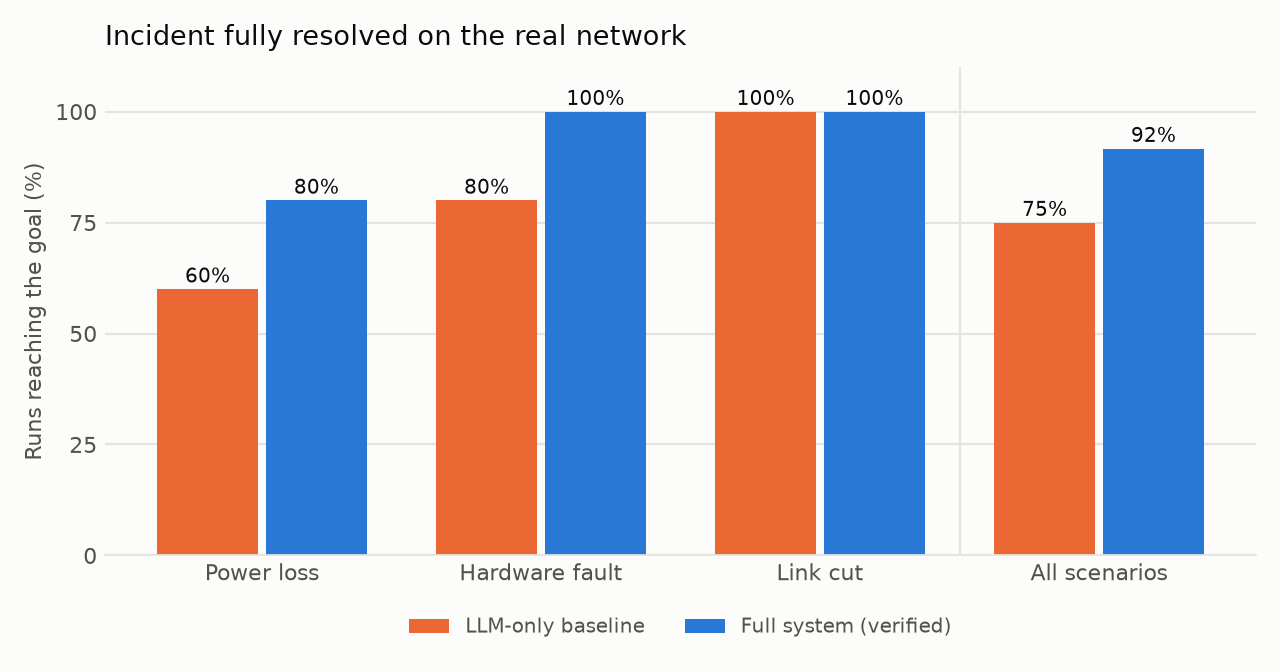
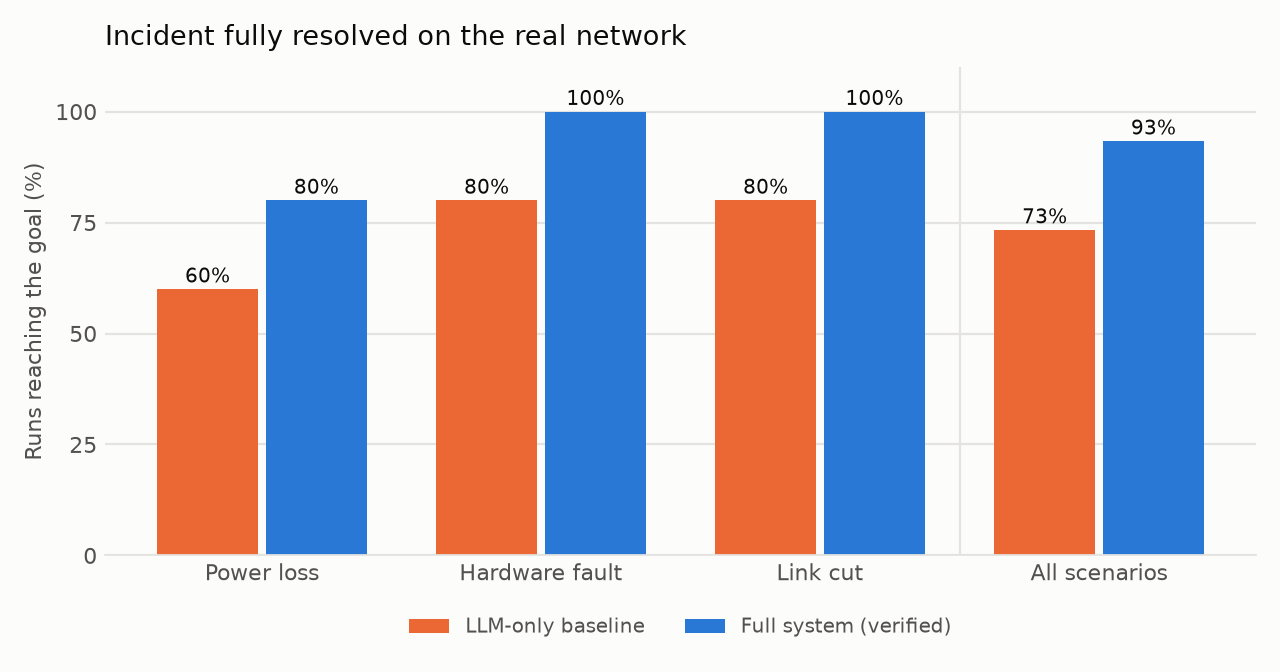
fix: phone layout for wide tables; baseline latency label

Changed region(s): [[0.5312, 0.125, 0.6562, 0.3125], [0.7812, 0.2812, 0.875, 0.3438], [0.8438, 0.1562, 0.9375, 0.2188]]

diff --git a/app.py b/app.py
@@ -27,6 +27,11 @@ SCENARIOS = json.loads((ROOT / "eval" / "scenarios.json").read_text(encoding="ut
 SUMMARY_MD = ROOT / "eval" / "summary.md"
 
 st.set_page_config(page_title="Telecom Incident Agent", page_icon="📡", layout="wide")
+# Wide Markdown tables scroll inside their own box instead of widening the page (phones).
+st.markdown(
+    "<style>.stMarkdown table{display:block;overflow-x:auto;max-width:100%;}</style>",
+    unsafe_allow_html=True,
+)
 
 # --- colours (validated default palette, light surface) -----------------------
 OK, FAULT, REROUTE, MUTED, TEXT = "#2a78d6", "#e34948", "#1baf7a", "#a8a7a0", "#0b0b0b"

diff --git a/eval/summarize.py b/eval/summarize.py
@@ -231,7 +231,8 @@ def write_markdown(summary: dict, rows: list[dict]) -> str:
         f"{a['runs_with_unsafe_or_invalid']['system']:.0f}% |",
         f"| Plan length / optimal | {a['plan_len_over_optimal']['baseline']} | "
         f"{a['plan_len_over_optimal']['system']} |",
-        f"| Latency per incident (s) | {a['latency_s']['baseline']} | {a['latency_s']['system']} |",
+        f"| Latency per incident (s) | {a['latency_s']['baseline'] or '— (shares the first call)'}"
+        f" | {a['latency_s']['system']} |",
         "",
         "| System-only metric | Value |",
         "| --- | --- |",

diff --git a/eval/summary.md b/eval/summary.md
@@ -1,26 +1,26 @@
 # Evaluation summary
 
-12 runs over 12 scenarios; model `openai/gpt-oss-20b`; goal reached is checked on the true network after execution.
+15 runs over 15 scenarios; model `openai/gpt-oss-20b`; goal reached is checked on the true network after execution.
 
-**Headline:** incidents fully resolved 92% (system) vs 75% (LLM-only baseline); valid plans 92% vs 83%; unsafe or invalid actions attempted: 0 vs 1.
+**Headline:** incidents fully resolved 93% (system) vs 73% (LLM-only baseline); valid plans 93% vs 80%; unsafe or invalid actions attempted: 0 vs 3.
 
 | Metric | Baseline | System |
 | --- | --- | --- |
-| Valid-plan rate | 83% | 92% |
-| Goal reached after execution | 75% | 92% |
-| ...without injected failures (10 runs) | 90% | 90% |
+| Valid-plan rate | 80% | 93% |
+| Goal reached after execution | 73% | 93% |
+| ...without injected failures (13 runs) | 85% | 92% |
 | ...with an injected restart failure (2 runs) | 0% | 100% |
-| Unsafe or invalid actions attempted (total) | 1 | 0 |
-| Runs with any unsafe or invalid action | 8% | 0% |
-| Plan length / optimal | 1.15 | 1.14 |
-| Latency per incident (s) | None | 18.03 |
+| Unsafe or invalid actions attempted (total) | 3 | 0 |
+| Runs with any unsafe or invalid action | 13% | 0% |
+| Plan length / optimal | 1.23 | 1.21 |
+| Latency per incident (s) | — (shares the first call) | 18.82 |
 
 | System-only metric | Value |
 | --- | --- |
-| Triage exact match | 92% |
-| Triage fault accuracy / sector accuracy | 0.92 / 0.92 |
-| Average LLM plan rounds | 1.09 |
-| LLM plan fixed after verifier feedback | 8% |
+| Triage exact match | 93% |
+| Triage fault accuracy / sector accuracy | 0.93 / 0.93 |
+| Average LLM plan rounds | 1.14 |
+| LLM plan fixed after verifier feedback | 13% |
 | Planner fallback rate | 0% |
 | Replan recovery rate | 100% of 2 runs |
 
@@ -30,7 +30,7 @@
 | --- | --- | --- | --- | --- |
 | Power loss | 5 | 80% / 80% | 60% / 80% | 0 / 0 |
 | Hardware fault | 5 | 80% / 100% | 80% / 100% | 1 / 0 |
-| Link cut | 2 | 100% / 100% | 100% / 100% | 0 / 0 |
+| Link cut | 5 | 80% / 100% | 80% / 100% | 2 / 0 |
 
 ## How to read this
 

diff --git a/README.md b/README.md
@@ -27,17 +27,17 @@ The LLM never writes PDDL. It fills JSON schemas; code builds the formal problem
 20 scenarios (power loss, hardware fault, link cut, multi-fault cascades; 3 with noisy customer text, 4 with a restart failure injected mid-run), 3 runs each. The **baseline** is the same LLM's first plan with no verifier and no replanning; both arms are scored on the true network after execution.
 
 <!-- results:start -->
-Model `openai/gpt-oss-20b`, 12 runs over 12 scenarios.
+Model `openai/gpt-oss-20b`, 15 runs over 15 scenarios.
 
 | Metric | LLM-only baseline | Verified system |
 | --- | --- | --- |
-| Valid plans | 83% | 92% |
-| Unsafe or invalid actions attempted | 1 | 0 |
-| Incident resolved, no injected failure (10 runs) | 90% | 90% |
+| Valid plans | 80% | 93% |
+| Unsafe or invalid actions attempted | 3 | 0 |
+| Incident resolved, no injected failure (13 runs) | 85% | 92% |
 | Incident resolved, restart fails mid-run (2 runs) | 0% | 100% |
-| Plan length / optimal | 1.15 | 1.14 |
+| Plan length / optimal | 1.23 | 1.21 |
 
-Triage exact match 92%; LLM plans fixed after verifier feedback 8%; pyperplan fallback 0%.
+Triage exact match 93%; LLM plans fixed after verifier feedback 13%; pyperplan fallback 0%.
 
 ![Goal reached](docs/goal_reached_rate.png)
 
